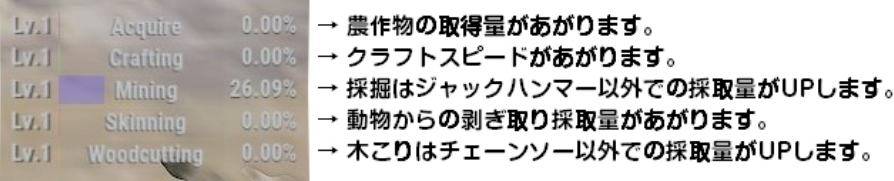
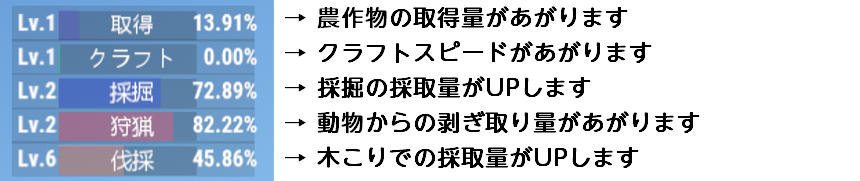
[add][update]スキル画像差し替え、運営メンバー追加

diff --git a/puikuma/index.html b/puikuma/index.html
@@ -12,7 +12,7 @@
 <body>
   <main>
     <section class="mv-area">
-      <h1><img src="/puikuma/imgs/mv_img_01.png" alt="スト鯖「ぷいくま24時」"></h1>
+      <h1><a href="/puikuma/index.html"><img src="/puikuma/imgs/mv_img_01.png" alt="スト鯖「ぷいくま24時」"></a></h1>
     </section><!-- /.mv-area -->
 
     <section class="member-area">
@@ -2647,6 +2647,107 @@
             <ul class="member-links">
               <li><a href="https://x.com/wakwakjp" target="_blank">X</a></li>
               <li><a href="https://www.twitch.tv/wakwakjp" target="_blank">Twitch</a></li>
+            </ul>
+          </div>
+        </div><!-- /.list-block -->
+      </div><!-- /.member-list-wrap -->
+    </section><!-- /.member-area -->
+
+    <section class="member-area">
+      <h2 class="area-title">運営メンバー</h2>
+      <div class="member-list-wrap">
+        <div class="list-block" data-furigana="アスカタン">
+          <div class="member-img-wrap">
+            <div class="member-img">
+              <img src="/puikuma/imgs/member/1857314289373319169.jpg" alt="">
+            </div>
+          </div>
+          <div class="member-txt-item">
+            <h3 class="member-name">アスカタン</h3>
+            <ul class="member-links">
+              <li><a href="https://x.com/ask0oxo0" target="_blank">X</a></li>
+              <li><a href="https://www.twitch.tv/ask0owo0" target="_blank">Twitch</a></li>
+            </ul>
+          </div>
+        </div><!-- /.list-block -->
+        <div class="list-block" data-furigana="アルバート">
+          <div class="member-img-wrap">
+            <div class="member-img">
+              <img src="/puikuma/imgs/member/1518712248449269760.jpg" alt="">
+            </div>
+          </div>
+          <div class="member-txt-item">
+            <h3 class="member-name">albert</h3>
+            <ul class="member-links">
+              <li><a href="https://x.com/fpser_albert" target="_blank">X</a></li>
+              <li><a href="https://www.twitch.tv/albert_jp" target="_blank">Twitch</a></li>
+            </ul>
+          </div>
+        </div><!-- /.list-block -->
+        <div class="list-block" data-furigana="ウリ">
+          <div class="member-img-wrap">
+            <div class="member-img">
+              <img src="/puikuma/imgs/member/1864509109778935808.jpg" alt="">
+            </div>
+          </div>
+          <div class="member-txt-item">
+            <h3 class="member-name">uri</h3>
+            <ul class="member-links">
+              <li><a href="https://x.com/UR1CH4N" target="_blank">X</a></li>
+              <li><a href="https://www.twitch.tv/uri_cha_" target="_blank">Twitch</a></li>
+            </ul>
+          </div>
+        </div><!-- /.list-block -->
+        <div class="list-block" data-furigana="ケン">
+          <div class="member-img-wrap">
+            <div class="member-img">
+              <img src="/puikuma/imgs/member/1783506496111988736.jpg" alt="">
+            </div>
+          </div>
+          <div class="member-txt-item">
+            <h3 class="member-name">KEN</h3>
+            <ul class="member-links">
+              <li><a href="https://x.com/ken080201" target="_blank">X</a></li>
+            </ul>
+          </div>
+        </div><!-- /.list-block -->
+        <div class="list-block" data-furigana="コアライザ">
+          <div class="member-img-wrap">
+            <div class="member-img">
+              <img src="/puikuma/imgs/member/1366841136510214144.jpg" alt="">
+            </div>
+          </div>
+          <div class="member-txt-item">
+            <h3 class="member-name">coreizer</h3>
+            <ul class="member-links">
+              <li><a href="https://x.com/coreizer" target="_blank">X</a></li>
+            </ul>
+          </div>
+        </div><!-- /.list-block -->
+        <div class="list-block" data-furigana="ナッカ">
+          <div class="member-img-wrap">
+            <div class="member-img">
+              <img src="/puikuma/imgs/member/1741035376897413120.jpg" alt="">
+            </div>
+          </div>
+          <div class="member-txt-item">
+            <h3 class="member-name">なっか</h3>
+            <ul class="member-links">
+              <li><a href="https://x.com/Mr_Nakka" target="_blank">X</a></li>
+            </ul>
+          </div>
+        </div><!-- /.list-block -->
+        <div class="list-block" data-furigana="リタン">
+          <div class="member-img-wrap">
+            <div class="member-img">
+              <img src="/puikuma/imgs/member/1662185022487658496.jpg" alt="">
+            </div>
+          </div>
+          <div class="member-txt-item">
+            <h3 class="member-name">りたん</h3>
+            <ul class="member-links">
+              <li><a href="https://x.com/ritan_ooO" target="_blank">X</a></li>
+              <li><a href="https://www.twitch.tv/ririritan" target="_blank">Twitch</a></li>
             </ul>
           </div>
         </div><!-- /.list-block -->

diff --git a/puikuma/rule/index.html b/puikuma/rule/index.html
@@ -15,7 +15,7 @@
 <body>
   <main id="rule-page">
     <section class="mv-area">
-      <h1><img src="/puikuma/imgs/mv_img_01.png" alt="スト鯖「ぷいくま24時」"></h1>
+      <h1><a href="/puikuma/index.html"><img src="/puikuma/imgs/mv_img_01.png" alt="スト鯖「ぷいくま24時」"></a></h1>
     </section><!-- /.mv-area -->
 
     <div class="entry-content nav-area">

diff --git a/puikuma/css/style.css b/puikuma/css/style.css
@@ -20,6 +20,10 @@ body {
   margin-bottom: 20px;
 }
 
+[class$="-area"] + [class$="-area"] {
+  margin-top: 50px;
+}
+
 [class$="-area"] a {
   font-size: 1rem;
   color: #333;
